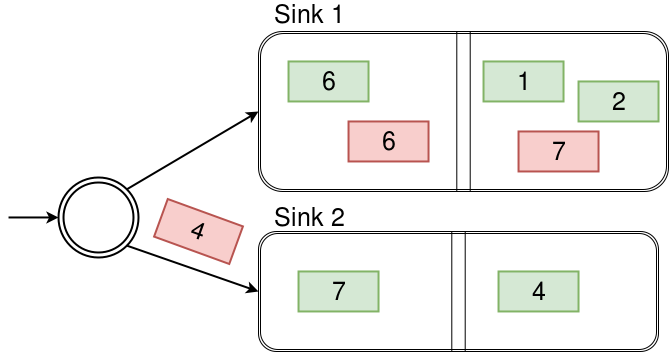
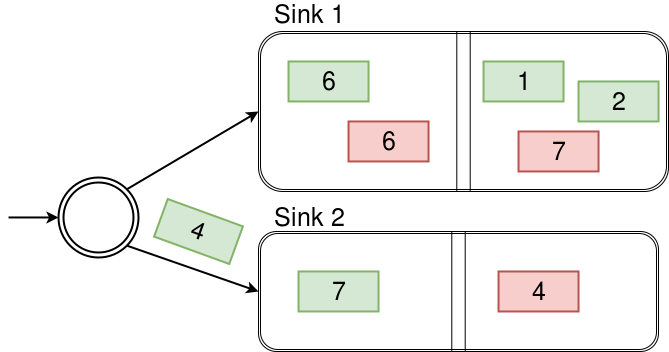
Common sink extracted to abstract class

Changed region(s): [[0.7175, 0.75, 0.867, 0.9062], [0.2093, 0.5625, 0.3587, 0.75]]

diff --git a/new-core/src/main/java/com/spbsu/datastream/core/application/WorkerApplication.java b/new-core/src/main/java/com/spbsu/datastream/core/application/WorkerApplication.java
@@ -42,11 +42,31 @@ public final class WorkerApplication {
   }
 
   public static void main(String... args) throws UnknownHostException {
+    if (args.length > 0) {
+      WorkerApplication.runWithArgs(args);
+    } else {
+      WorkerApplication.runWithEnv();
+    }
+  }
+
+  private static void runWithEnv() throws UnknownHostException {
+    final int id = Integer.valueOf(System.getenv("DS_ID"));
+    final InetAddress address = InetAddress.getByName(System.getenv("DS_HOST"));
+    final int port = Integer.parseInt(System.getenv("DS_PORT"));
+    final InetSocketAddress socketAddress = new InetSocketAddress(address, port);
+
+    final String connectingString = System.getenv("DS_ZK");
+    new WorkerApplication(id, socketAddress, connectingString).run();
+  }
+
+  private static void runWithArgs(String... args) {
     final Options options = new Options();
+    final Option idOpt = Option.builder("id").hasArg().argName("id").desc("worker id").required().build();
     final Option hostOpt = Option.builder("host").hasArg().argName("FQDN").desc("worker FQDN").required().build();
     final Option portOpt = Option.builder("port").hasArg().argName("port").desc("worker port").required().build();
     final Option zkOpt = Option.builder("zk").hasArg().argName("connectString").desc("ZK connect string").required().build();
 
+    options.addOption(idOpt);
     options.addOption(hostOpt);
     options.addOption(portOpt);
     options.addOption(zkOpt);
@@ -66,7 +86,10 @@ public final class WorkerApplication {
       WorkerApplication.LOG.error("Parsing failed", e);
       final HelpFormatter formatter = new HelpFormatter();
       formatter.printHelp("dataStreams", options);
+    } catch (UnknownHostException e) {
+      WorkerApplication.LOG.error("Resolving failed", e);
     }
+
   }
 
   public void run() {

diff --git a/new-core/src/main/java/com/spbsu/datastream/core/graph/ops/Filter.java b/new-core/src/main/java/com/spbsu/datastream/core/graph/ops/Filter.java
@@ -9,13 +9,17 @@ import com.spbsu.datastream.core.graph.InPort;
 import com.spbsu.datastream.core.graph.OutPort;
 import com.spbsu.datastream.core.range.atomic.AtomicHandle;
 
+import java.util.ArrayList;
 import java.util.Collections;
 import java.util.List;
 import java.util.function.Predicate;
 
 public final class Filter<T> extends AbstractAtomicGraph {
+  public static final String NULL_PAYLOAD = "empty";
+
   private final InPort inPort;
   private final OutPort outPort = new OutPort();
+  private final OutPort nullPort = new OutPort();
 
   private final Predicate<T> predicate;
 
@@ -26,14 +30,13 @@ public final class Filter<T> extends AbstractAtomicGraph {
 
   @Override
   public void onPush(InPort inPort, DataItem<?> item, AtomicHandle handler) {
-    @SuppressWarnings("unchecked") final boolean ok = this.predicate.test((T) item.payload());
+    @SuppressWarnings("unchecked") final boolean test = this.predicate.test((T) item.payload());
 
-    if (ok) {
+    if (test) {
       final DataItem<?> result = new PayloadDataItem<>(new Meta(item.meta(), this.incrementLocalTimeAndGet()), item.payload());
-
       handler.push(this.outPort(), result);
     } else {
-      // TODO: 5/9/17 DELIVER NULL
+      handler.push(this.nullPort(), new PayloadDataItem<>(new Meta(item.meta(), this.incrementLocalTimeAndGet()), Filter.NULL_PAYLOAD));
     }
   }
 
@@ -50,9 +53,16 @@ public final class Filter<T> extends AbstractAtomicGraph {
     return this.outPort;
   }
 
+  public OutPort nullPort() {
+    return this.nullPort;
+  }
+
   @Override
   public List<OutPort> outPorts() {
-    return Collections.singletonList(this.outPort);
+    final List<OutPort> result = new ArrayList<>();
+    result.add(this.outPort);
+    result.add(this.nullPort);
+    return Collections.unmodifiableList(result);
   }
 }
 

diff --git a/new-core/src/main/java/com/spbsu/datastream/core/barrier/BarrierSink.java b/new-core/src/main/java/com/spbsu/datastream/core/barrier/BarrierSink.java
@@ -1,0 +1,60 @@
+package com.spbsu.datastream.core.barrier;
+
+import com.spbsu.datastream.core.DataItem;
+import com.spbsu.datastream.core.GlobalTime;
+import com.spbsu.datastream.core.graph.AbstractAtomicGraph;
+import com.spbsu.datastream.core.graph.InPort;
+import com.spbsu.datastream.core.graph.OutPort;
+import com.spbsu.datastream.core.range.atomic.AtomicHandle;
+
+import java.util.ArrayList;
+import java.util.Collections;
+import java.util.List;
+
+public abstract class BarrierSink<T> extends AbstractAtomicGraph {
+  private final InPort inPort;
+
+  private final InPort nullPort;
+
+  private final BarrierCollector collector = new LinearCollector();
+
+  public BarrierSink() {
+    this.inPort = new InPort(PreSinkMetaElement.HASH_FUNCTION);
+    this.nullPort = new InPort(PreSinkMetaElement.HASH_FUNCTION);
+  }
+
+  @Override
+  public final void onPush(InPort inPort, DataItem<?> item, AtomicHandle handle) {
+    this.collector.enqueue(item);
+  }
+
+  @SuppressWarnings("unchecked")
+  @Override
+  public final void onMinGTimeUpdate(GlobalTime globalTime, AtomicHandle handle) {
+    this.collector.update(globalTime);
+    this.collector.release(di -> this.consume(((DataItem<PreSinkMetaElement<T>>) di).payload().payload()));
+  }
+
+  protected abstract void consume(T payload);
+
+  public final InPort inPort() {
+    return this.inPort;
+  }
+
+  public final InPort nullPort() {
+    return this.nullPort;
+  }
+
+  @Override
+  public final List<InPort> inPorts() {
+    final List<InPort> result = new ArrayList<>();
+    result.add(this.inPort);
+    result.add(this.nullPort);
+    return Collections.unmodifiableList(result);
+  }
+
+  @Override
+  public final List<OutPort> outPorts() {
+    return Collections.emptyList();
+  }
+}

diff --git a/new-core/src/main/java/com/spbsu/datastream/core/barrier/RemoteActorConsumer.java b/new-core/src/main/java/com/spbsu/datastream/core/barrier/RemoteActorConsumer.java
@@ -14,21 +14,13 @@ import com.spbsu.datastream.core.range.atomic.AtomicHandle;
 import java.util.Collections;
 import java.util.List;
 
-public final class RemoteActorConsumer<T> extends AbstractAtomicGraph {
+public final class RemoteActorConsumer<T> extends BarrierSink<T> {
   private final ActorPath path;
-  private final InPort inPort;
-
-  private final BarrierCollector collector = new LinearCollector();
 
   private ActorSelection actor;
 
   public RemoteActorConsumer(ActorPath path) {
     this.path = path;
-    this.inPort = new InPort(PreSinkMetaElement.HASH_FUNCTION);
-  }
-
-  public InPort inPort() {
-    return this.inPort;
   }
 
   @Override
@@ -37,34 +29,8 @@ public final class RemoteActorConsumer<T> extends AbstractAtomicGraph {
   }
 
   @Override
-  public void onPush(InPort inPort, DataItem<?> item, AtomicHandle handle) {
-    this.collector.enqueue(item);
-  }
-
-  @SuppressWarnings("unchecked")
-  @Override
-  public void onMinGTimeUpdate(GlobalTime globalTime, AtomicHandle handle) {
-    this.collector.update(globalTime);
-    this.collector.release(di -> this.consume((DataItem<PreSinkMetaElement<T>>) di));
-  }
-
-  private void consume(DataItem<PreSinkMetaElement<T>> di) {
-    this.actor.tell(new RawData<>(di.payload().payload()), ActorRef.noSender());
-  }
-
-  @Override
-  public void onCommit(AtomicHandle handle) {
-    System.out.println();
-  }
-
-  @Override
-  public List<InPort> inPorts() {
-    return Collections.singletonList(this.inPort);
-  }
-
-  @Override
-  public List<OutPort> outPorts() {
-    return Collections.emptyList();
+  protected void consume(T payload) {
+    this.actor.tell(new RawData<>(payload), ActorRef.noSender());
   }
 }
 

diff --git a/new-core/src/main/java/com/spbsu/datastream/core/barrier/PreSinkMetaElement.java b/new-core/src/main/java/com/spbsu/datastream/core/barrier/PreSinkMetaElement.java
@@ -34,6 +34,7 @@ final class PreSinkMetaElement<T> {
     return this.metaHash;
   }
 
+
   @Override
   public String toString() {
     return "PreSinkMetaElement{" + "payload=" + this.payload +
